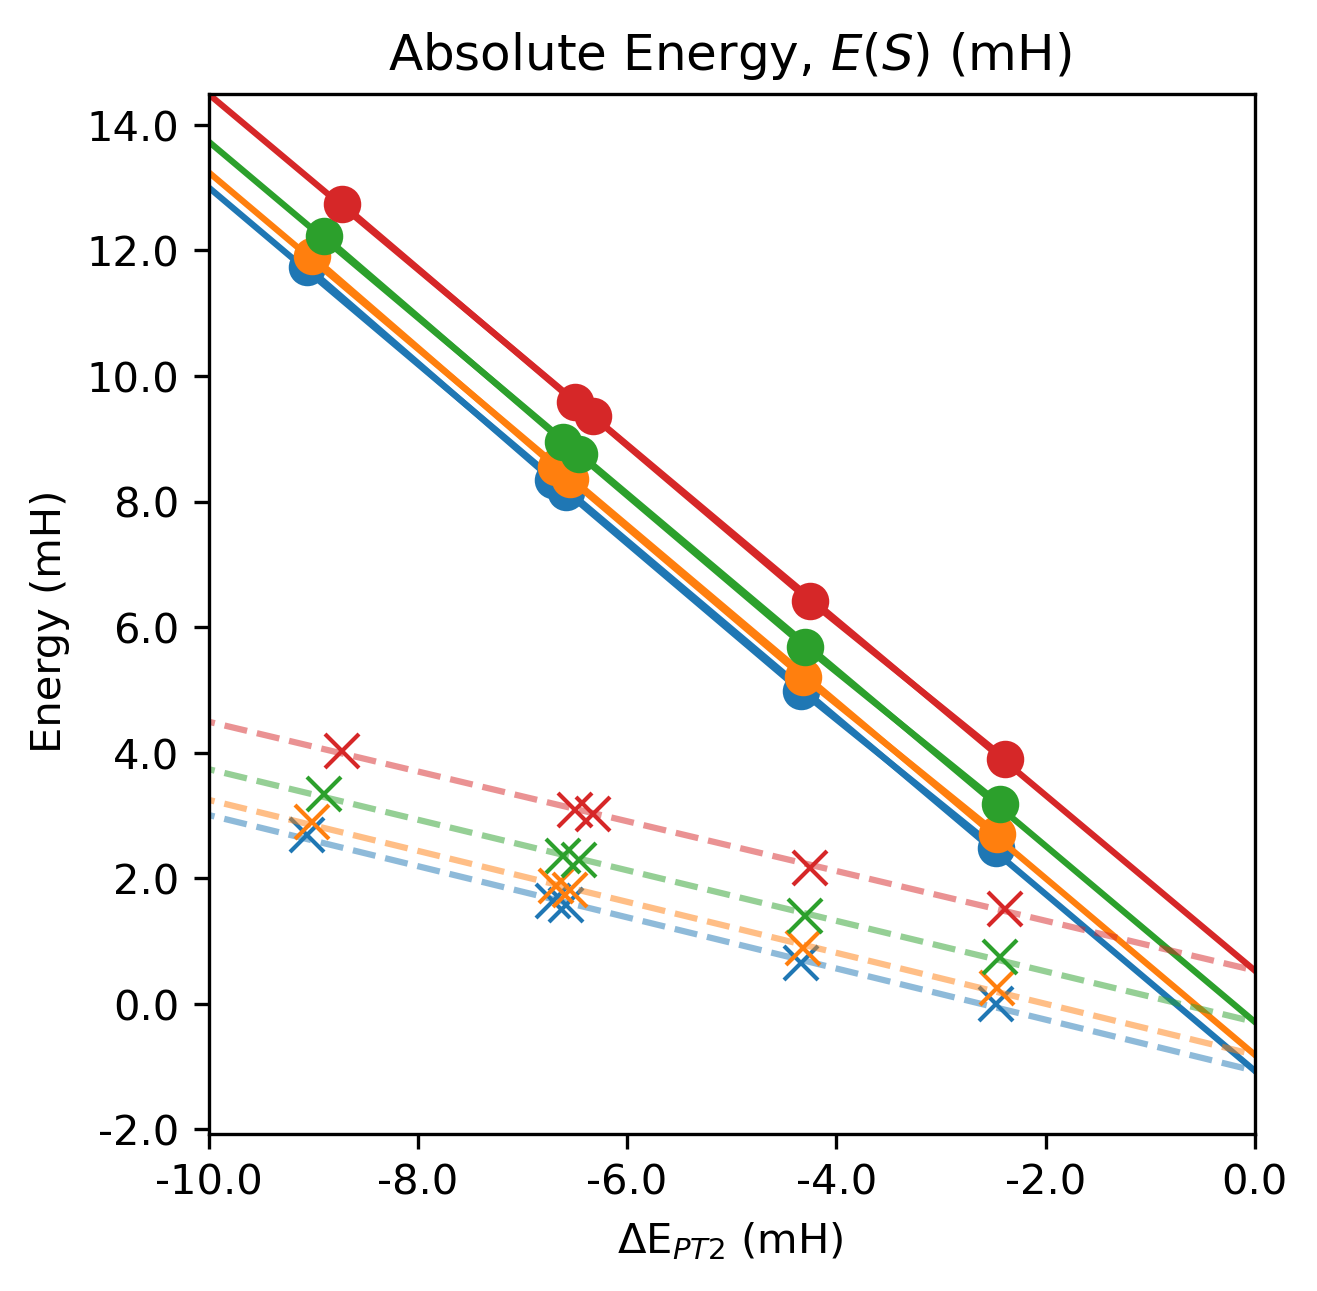
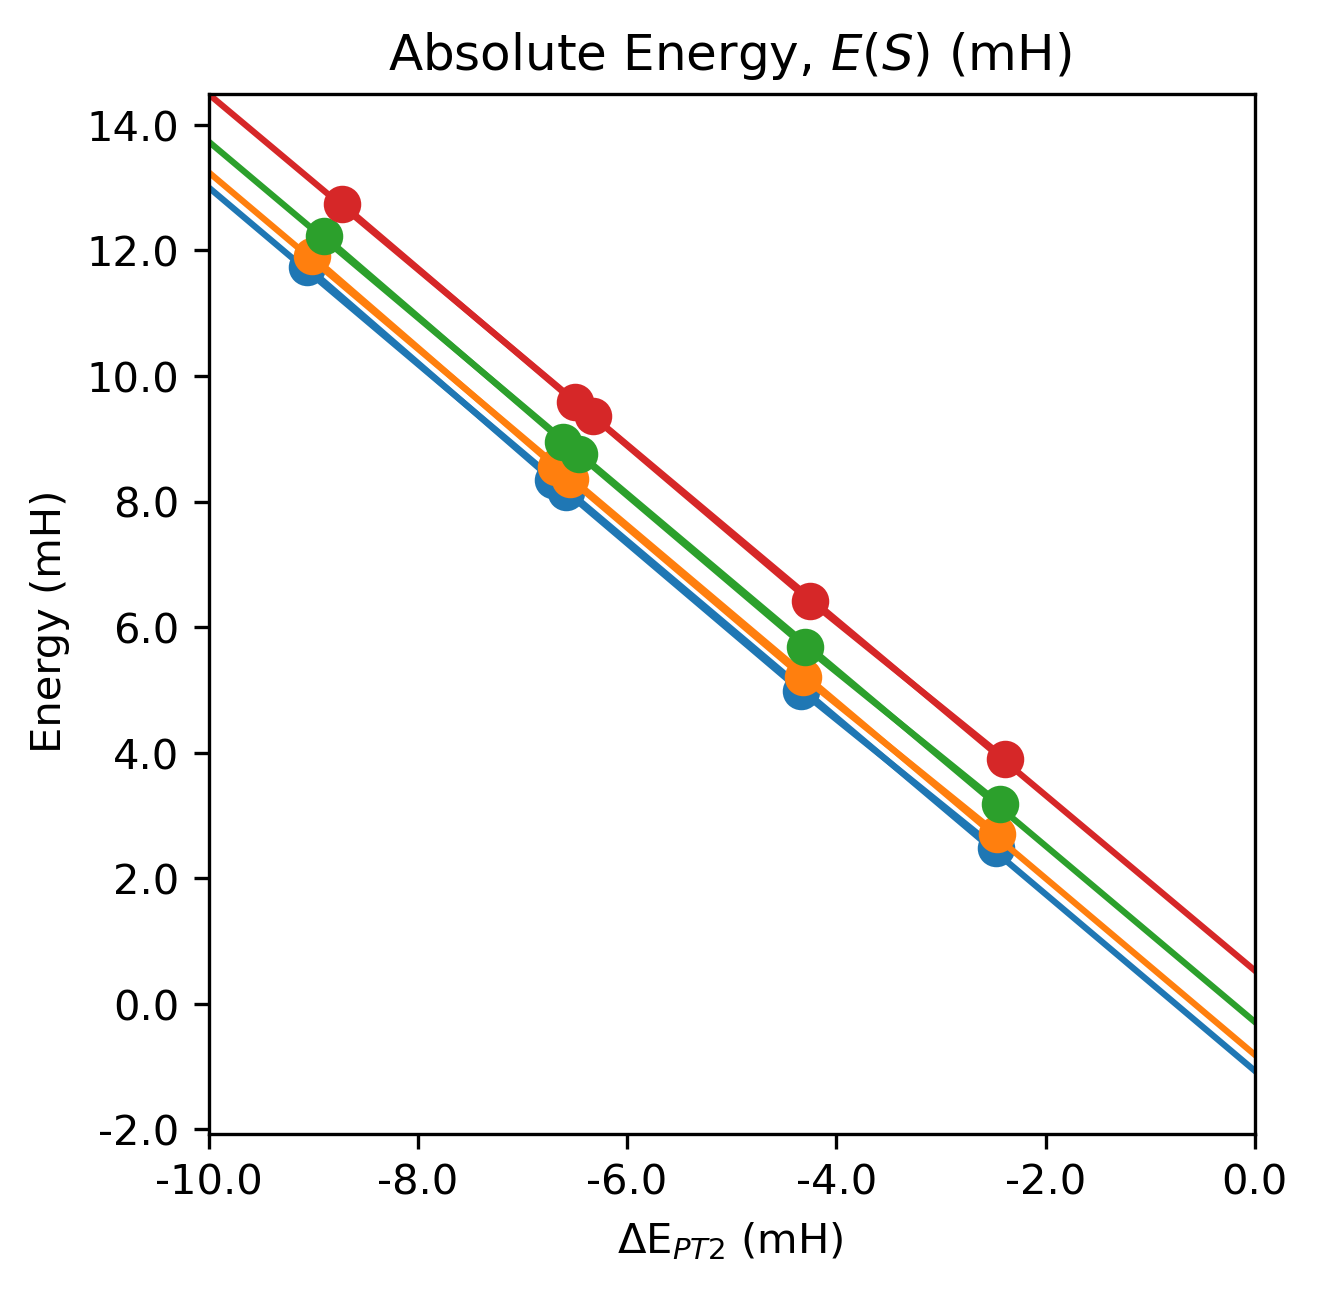
updated extrap plots

Changed region(s): [[0.1557, 0.5577, 0.9651, 0.8366]]

diff --git a/cr2/m100/plot_extrap.py b/cr2/m100/plot_extrap.py
@@ -96,13 +96,13 @@ for key in energy_var:
     ymax = max(ymax, m*xmin+b)
 
     ax.plot(x, y, marker='o',linestyle='-' ,markersize=8, color = cb[key])
-    ax.plot(x, z, marker='x',linestyle=' ' , markersize=8, color = cb[key])
+    #ax.plot(x, z, marker='x',linestyle=' ' , markersize=8, color = cb[key])
 
     x2 = np.array([-1,0])*conversion
     line = m*x2+b
     ax.plot(x2, line, alpha=1.0, color = cb[key], linestyle='-', linewidth=1.5)
     line = m2*x2+b                                     
-    ax.plot(x2, line, alpha=0.5, color = cb[key], linestyle='--', linewidth=1.5)
+    #ax.plot(x2, line, alpha=0.5, color = cb[key], linestyle='--', linewidth=1.5)
     print("Extrapolated Result: %14.8f"% ((b+emin)/conversion))
     print("R^2                : %14.8f"% r_value)
     print("Var root",key,y)
